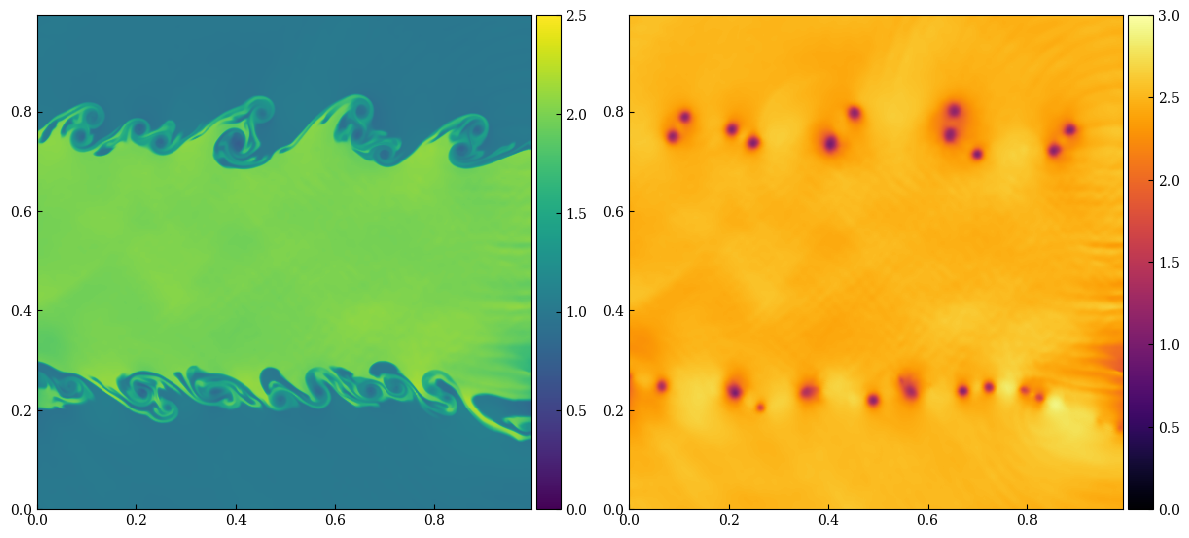
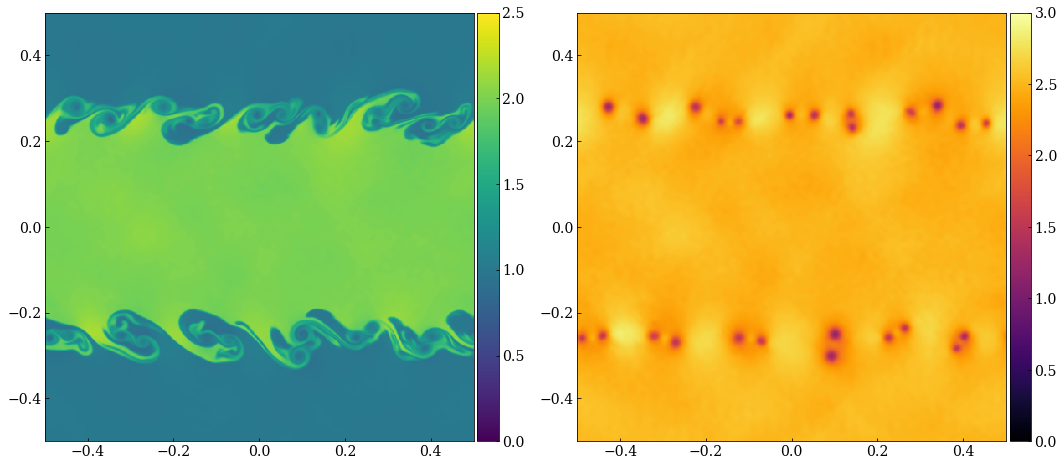
wheee

diff --git a/plot.py b/plot.py
@@ -34,8 +34,11 @@ img_rat = (xmax - xmin) / (ymax - ymin);
 
 def doit(fnum):
 	print("fnum = %d" % fnum)
-	rho = np.transpose(np.loadtxt("data/rho_%05d.dat" % fnum))
-	press = np.transpose(np.loadtxt("data/press_%05d.dat" % fnum))
+	try:
+		rho = np.transpose(np.loadtxt("data/rho_%05d.dat" % fnum))
+		press = np.transpose(np.loadtxt("data/press_%05d.dat" % fnum))
+	except:
+		return
 
 	x = np.linspace(xmin, xmax, nx+1)
 	y = np.linspace(ymin, ymax, ny+1)
@@ -62,7 +65,7 @@ def doit(fnum):
 	pl(ax, rho, cmap="viridis", vbound=[0,2.5])
 
 	ax = fig.add_subplot(gs[0,1])
-	pl(ax, press/rho, cmap="inferno", vbound=[0,3])
+	pl(ax, press, cmap="inferno", vbound=[0,3])
 
 	gs.tight_layout(fig)
 	plt.savefig("img/img_%05d.png" % fnum)

diff --git a/src/riemann.c b/src/riemann.c
@@ -2,13 +2,20 @@
 #include "eos.h"
 #include <math.h>
 
+extern double GRAV;
+
 static inline double slope_lim(double r)
 {
 	double a, b;
 
 	if (r > 0) {
-		a = 0.92;
-		b = 1.92;
+		if (GRAV != 0) {
+			a = 0.92;
+			b = 1.92;
+		} else {
+			a = 1;
+			b = 1.6;
+		}
 		return fmax(fmin(a, b*r), fmin(a*r, b));
 	} else {
 		return 0;
